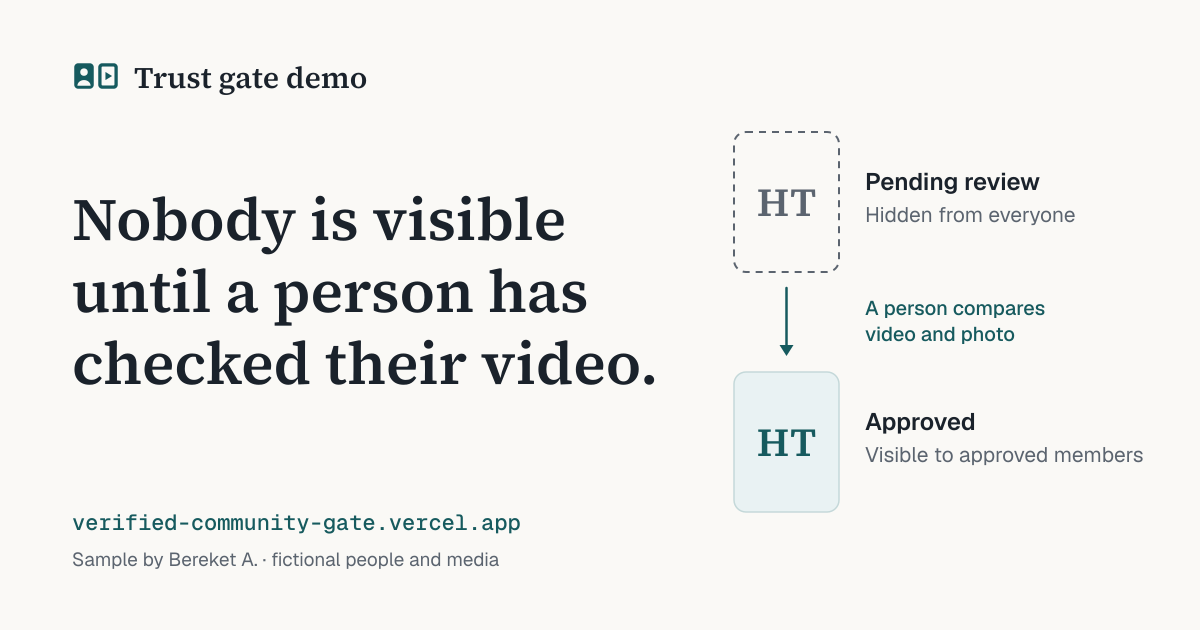
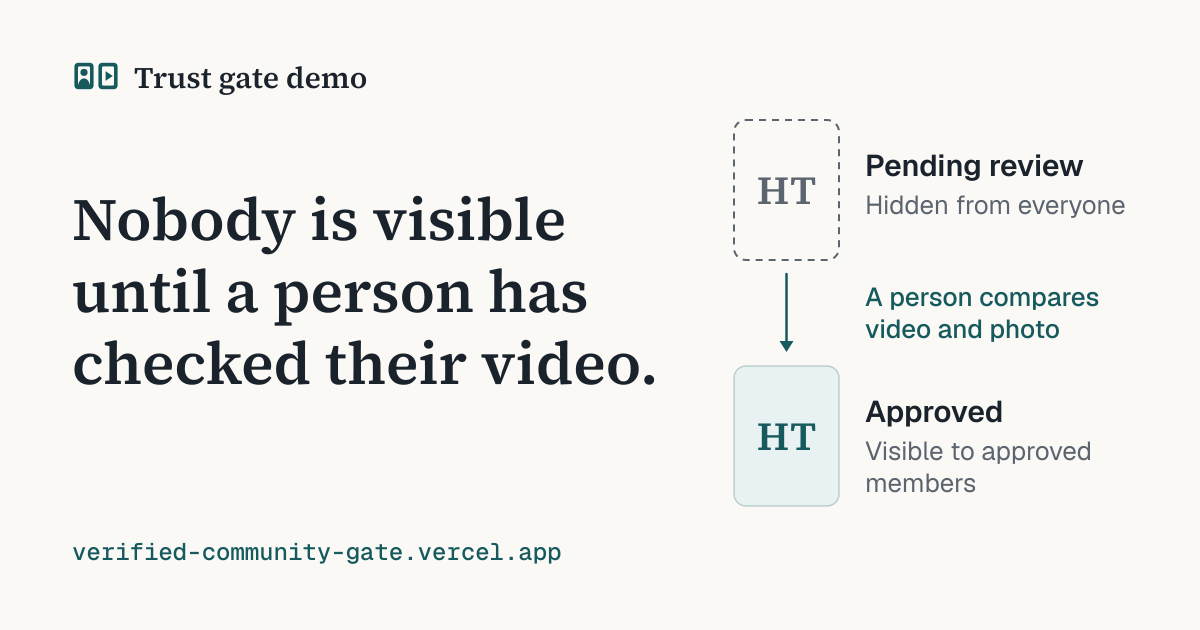
Redraw the mark as two matching frames on whole pixels
The photo and the video are now built the same way, the favicon is its own
16-unit drawing so it is sharp at 16, 32 and 48 px, and the social card's
labels are large enough for a mid-sized link preview.

diff --git a/components/brand-mark.tsx b/components/brand-mark.tsx
@@ -4,10 +4,7 @@
 export function BrandMark({ className }: { className?: string }) {
   return (
     <svg viewBox="0 0 32 32" fill="currentColor" aria-hidden="true" focusable="false" className={className}>
-      <path
-        fillRule="evenodd"
-        d="M4.1 7.5H11.9A2.6 2.6 0 0 1 14.5 10.1V21.9A2.6 2.6 0 0 1 11.9 24.5H4.1A2.6 2.6 0 0 1 1.5 21.9V10.1A2.6 2.6 0 0 1 4.1 7.5ZM5.5 13.4A2.5 2.5 0 1 0 10.5 13.4A2.5 2.5 0 1 0 5.5 13.4ZM3.6 22.5A4.4 3.8 0 0 1 12.4 22.5ZM20.1 7.5H27.9A2.6 2.6 0 0 1 30.5 10.1V21.9A2.6 2.6 0 0 1 27.9 24.5H20.1A2.6 2.6 0 0 1 17.5 21.9V10.1A2.6 2.6 0 0 1 20.1 7.5ZM20.3 9.7H27.7A0.6 0.6 0 0 1 28.3 10.3V21.7A0.6 0.6 0 0 1 27.7 22.3H20.3A0.6 0.6 0 0 1 19.7 21.7V10.3A0.6 0.6 0 0 1 20.3 9.7ZM22.3 13.3L22.3 18.7L26.7 16Z"
-      />
+      <path d="M4 7.2H12A2.4 2.4 0 0 1 14.4 9.6V22.4A2.4 2.4 0 0 1 12 24.8H4A2.4 2.4 0 0 1 1.6 22.4V9.6A2.4 2.4 0 0 1 4 7.2ZM4.8 9.6A0.8 0.8 0 0 0 4 10.4V21.6A0.8 0.8 0 0 0 4.8 22.4H11.2A0.8 0.8 0 0 0 12 21.6V10.4A0.8 0.8 0 0 0 11.2 9.6ZM5.6 13.6A2.4 2.4 0 1 0 10.4 13.6A2.4 2.4 0 1 0 5.6 13.6ZM4 23.2A4 5.6 0 0 1 12 23.2ZM20 7.2H28A2.4 2.4 0 0 1 30.4 9.6V22.4A2.4 2.4 0 0 1 28 24.8H20A2.4 2.4 0 0 1 17.6 22.4V9.6A2.4 2.4 0 0 1 20 7.2ZM20.8 9.6A0.8 0.8 0 0 0 20 10.4V21.6A0.8 0.8 0 0 0 20.8 22.4H27.2A0.8 0.8 0 0 0 28 21.6V10.4A0.8 0.8 0 0 0 27.2 9.6ZM22.4 12.8L22.4 19.2L27.2 16Z" />
     </svg>
   );
 }

diff --git a/design/make_brand.py b/design/make_brand.py
@@ -2,8 +2,15 @@
 """Draws the mark, the favicon, the Apple touch icon and the social preview card.
 
 The mark is the moderator's view in miniature: a portrait photo beside a video frame, the two
-things a person compares before anyone can see a profile. It is drawn on a 32-unit grid as one
-even-odd path, so the cut-outs (head, shoulders, the inside of the video frame) stay transparent.
+things a person compares before anyone can see a profile. Both halves are built the same way, a
+frame with something inside it (a head and shoulders cropped by the frame's bottom edge, a play
+triangle), so neither half outweighs the other. It is drawn on a 32-unit grid as one non-zero
+path: each frame's inner edge runs the other way round, so the inside stays transparent. The
+frames' edges, the triangle's corners and the top, bottom and sides of the head and shoulders sit
+on multiples of 0.8 units, which are whole pixels at the header's 40 px.
+
+The favicon is drawn separately on a 16-unit grid with whole-unit edges, so it is sharp at 16, 32
+and 48 px instead of being the large mark scaled down onto half pixels.
 
 Writes the sources to build/brand/ and the React component to components/brand-mark.tsx.
 design/build.sh then exports the files the app serves with Inkscape. Standard library only.
@@ -32,7 +39,19 @@ def num(v):
     return f"{v:.2f}".rstrip("0").rstrip(".")
 
 
-def rounded_rect(x, y, w, h, r):
+def rounded_rect(x, y, w, h, r, ccw=False):
+    """Clockwise by default; ccw=True runs the other way, which cuts a hole in a non-zero path."""
+    if r == 0:
+        if ccw:
+            return f"M{num(x)} {num(y)}V{num(y + h)}H{num(x + w)}V{num(y)}Z"
+        return f"M{num(x)} {num(y)}H{num(x + w)}V{num(y + h)}H{num(x)}Z"
+    if ccw:
+        return (
+            f"M{num(x + r)} {num(y)}A{num(r)} {num(r)} 0 0 0 {num(x)} {num(y + r)}"
+            f"V{num(y + h - r)}A{num(r)} {num(r)} 0 0 0 {num(x + r)} {num(y + h)}"
+            f"H{num(x + w - r)}A{num(r)} {num(r)} 0 0 0 {num(x + w)} {num(y + h - r)}"
+            f"V{num(y + r)}A{num(r)} {num(r)} 0 0 0 {num(x + w - r)} {num(y)}Z"
+        )
     return (
         f"M{num(x + r)} {num(y)}H{num(x + w - r)}A{num(r)} {num(r)} 0 0 1 {num(x + w)} {num(y + r)}"
         f"V{num(y + h - r)}A{num(r)} {num(r)} 0 0 1 {num(x + w - r)} {num(y + h)}"
@@ -46,6 +65,8 @@ def circle(cx, cy, r):
 
 
 def shoulders(cx, base, half_width, height):
+    """Half an ellipse standing on `base`. The base sits inside the frame's bottom edge, so the
+    shoulders run into the frame the way a portrait photo crops them."""
     return f"M{num(cx - half_width)} {num(base)}A{num(half_width)} {num(height)} 0 0 1 {num(cx + half_width)} {num(base)}Z"
 
 
@@ -53,33 +74,33 @@ def polygon(points):
     return "M" + "L".join(f"{num(x)} {num(y)}" for x, y in points) + "Z"
 
 
-# The glyph on the 32-unit grid: photo on the left, video on the right, 3 units apart,
-# both 13 by 17 (close to the 3:4 of the member portraits), centred on (16, 16).
-PHOTO = (1.5, 7.5, 13, 17)
-VIDEO = (17.5, 7.5, 13, 17)
-CORNER = 2.6
+# The glyph on the 32-unit grid: photo on the left, video on the right, 3.2 units apart, both
+# 12.8 by 17.6 (close to the 3:4 of the member portraits), centred on (16, 16). At 40 px one
+# unit is 1.25 px, so every value below that is a multiple of 0.8 lands on a whole pixel.
+PHOTO = (1.6, 7.2, 12.8, 17.6)
+VIDEO = (17.6, 7.2, 12.8, 17.6)
+CORNER, INNER_CORNER, FRAME = 2.4, 0.8, 2.4
+HEAD = (8.0, 13.6, 2.4)  # centre x, centre y, radius
+SHOULDERS = (8.0, 23.2, 4.0, 5.6)  # centre x, base (inside the bottom edge), half-width, height
+PLAY = [(22.4, 12.8), (22.4, 19.2), (27.2, 16.0)]
 
-# Two weights of the same drawing. The small one has a thicker frame and a bigger head and
-# shoulders, so the favicon still reads at 16 to 32 px.
-REGULAR = {"frame": 2.2, "head": 2.5, "head_y": 13.4, "shoulders": (4.4, 3.8), "play": [(22.3, 13.3), (22.3, 18.7), (26.7, 16.0)]}
-SMALL = {"frame": 2.8, "head": 2.9, "head_y": 13.2, "shoulders": (4.7, 4.0), "play": [(22.1, 13.0), (22.1, 19.0), (26.3, 16.0)]}
+
+def frame(x, y, w, h):
+    return rounded_rect(x, y, w, h, CORNER) + rounded_rect(x + FRAME, y + FRAME, w - 2 * FRAME, h - 2 * FRAME, INNER_CORNER, ccw=True)
 
 
-def glyph(weight=REGULAR):
-    """The photo with a head and shoulders cut out, and the video frame with a play triangle."""
-    px, py, pw, ph = PHOTO
-    vx, vy, vw, vh = VIDEO
-    cx, frame = px + pw / 2, weight["frame"]
-    return "".join(
-        [
-            rounded_rect(px, py, pw, ph, CORNER),
-            circle(cx, weight["head_y"], weight["head"]),
-            shoulders(cx, 22.5, *weight["shoulders"]),
-            rounded_rect(vx, vy, vw, vh, CORNER),
-            rounded_rect(vx + frame, vy + frame, vw - 2 * frame, vh - 2 * frame, 0.6),
-            polygon(weight["play"]),
-        ]
-    )
+def glyph():
+    """Two frames of the same build: a head and shoulders in the photo, a play triangle in the video."""
+    return "".join([frame(*PHOTO), circle(*HEAD), shoulders(*SHOULDERS), frame(*VIDEO), polygon(PLAY)])
+
+
+def favicon_glyph():
+    """The same drawing fitted to a 16-unit grid: two 6 by 8 frames with a 1-unit edge, 2 units
+    apart, a head and shoulders in the left one and a play triangle in the right."""
+    def tile(x):
+        return rounded_rect(x, 4, 6, 8, 1) + rounded_rect(x + 1, 5, 4, 6, 0, ccw=True)
+
+    return "".join([tile(1), circle(4, 7, 1), shoulders(4, 11.5, 2, 2.5), tile(9), polygon([(11, 6), (11, 10), (13, 8)])])
 
 
 def svg(width, height, body, view_box=None):
@@ -88,15 +109,15 @@ def svg(width, height, body, view_box=None):
 
 
 def mark_svg():
-    return svg(32, 32, f'  <path fill="currentColor" fill-rule="evenodd" d="{glyph()}"/>\n')
+    return svg(32, 32, f'  <path fill="currentColor" d="{glyph()}"/>\n')
 
 
 def favicon_svg():
     return svg(
-        32,
-        32,
-        f'  <rect width="32" height="32" rx="7" fill="{TEAL}"/>\n'
-        f'  <path fill="{PAPER}" fill-rule="evenodd" transform="translate(16 16) scale(0.82) translate(-16 -16)" d="{glyph(SMALL)}"/>\n',
+        16,
+        16,
+        f'  <rect width="16" height="16" rx="3.5" fill="{TEAL}"/>\n'
+        f'  <path fill="{PAPER}" d="{favicon_glyph()}"/>\n',
     )
 
 
@@ -106,7 +127,7 @@ def apple_icon_svg():
         180,
         180,
         f'  <rect width="32" height="32" fill="{TEAL}"/>\n'
-        f'  <path fill="{PAPER}" fill-rule="evenodd" transform="translate(16 16) scale(0.7) translate(-16 -16)" d="{glyph()}"/>\n',
+        f'  <path fill="{PAPER}" transform="translate(16 16) scale(0.7) translate(-16 -16)" d="{glyph()}"/>\n',
         view_box="0 0 32 32",
     )
 
@@ -125,38 +146,39 @@ def portrait(x, y, w, h, pending):
         card = f'  <rect x="{x}" y="{y}" width="{w}" height="{h}" rx="12" fill="none" stroke="{GREY}" stroke-width="2" stroke-dasharray="7 6"/>\n'
         colour = GREY
     else:
-        card = f'  <rect x="{x}" y="{y}" width="{w}" height="{h}" rx="12" fill="{TINT}" stroke="#c4d8d9" stroke-width="1.5"/>\n'
+        card = f'  <rect x="{x}" y="{y}" width="{w}" height="{h}" rx="12" fill="{TINT}" stroke="{TEAL}" stroke-opacity="0.25" stroke-width="1.5"/>\n'
         colour = TEAL
     return card + text(x + w / 2, y + h / 2 + 14, "HT", 40, "Source Serif 4", 600, colour, "middle", "1")
 
 
 def og_svg():
+    """1200 x 630. Text that has to survive a small link preview (about 300 px wide) is 26 px or more."""
     w, h = 1200, 630
     body = [f'  <rect width="{w}" height="{h}" fill="{PAPER}"/>\n']
     # Mark and name, top left.
-    body.append(f'  <path fill="{TEAL}" fill-rule="evenodd" transform="translate(72 52) scale(1.5)" d="{glyph()}"/>\n')
+    body.append(f'  <path fill="{TEAL}" transform="translate(72 52) scale(1.5)" d="{glyph()}"/>\n')
     body.append(text(134, 88, "Trust gate demo", 30, "Source Serif 4", 600))
     # Headline, the home page's first line.
     for i, line in enumerate(["Nobody is visible", "until a person has", "checked their video."]):
         body.append(text(72, 240 + i * 72, line, 60, "Source Serif 4", 600))
     # Right: the same member before and after review.
-    px, top, pw, ph = 734, 132, 105, 140
+    px, top, pw, ph = 734, 120, 105, 140
     lx = px + pw + 26
     body.append(portrait(px, top, pw, ph, pending=True))
-    body.append(text(lx, top + 58, "Pending review", 24, weight=600))
-    body.append(text(lx, top + 90, "Hidden from everyone", 21, fill=GREY))
-    ax, a0, a1 = px + pw / 2, top + ph + 16, top + ph + 84
+    body.append(text(lx, top + 56, "Pending review", 30, weight=600))
+    body.append(text(lx, top + 94, "Hidden from everyone", 26, fill=GREY))
+    ax, a0, a1 = px + pw / 2, top + ph + 14, top + ph + 92
     body.append(f'  <path d="M{num(ax)} {num(a0)}V{num(a1 - 9)}" stroke="{TEAL}" stroke-width="2.5" stroke-linecap="round" fill="none"/>\n')
     body.append(f'  <path d="{polygon([(ax - 7, a1 - 11), (ax + 7, a1 - 11), (ax, a1)])}" fill="{TEAL}"/>\n')
-    body.append(text(lx, a0 + 27, "A person compares", 20, fill=TEAL, weight=500))
-    body.append(text(lx, a0 + 53, "video and photo", 20, fill=TEAL, weight=500))
-    top2 = a1 + 16
+    body.append(text(lx, a0 + 32, "A person compares", 26, fill=TEAL, weight=500))
+    body.append(text(lx, a0 + 64, "video and photo", 26, fill=TEAL, weight=500))
+    top2 = a1 + 14
     body.append(portrait(px, top2, pw, ph, pending=False))
-    body.append(text(lx, top2 + 58, "Approved", 24, weight=600))
-    body.append(text(lx, top2 + 90, "Visible to approved members", 21, fill=GREY))
-    # Bottom left: where the demo lives and the footer wording.
-    body.append(text(72, 530, "verified-community-gate.vercel.app", 22, "Geist Mono", 500, TEAL))
-    body.append(text(72, 566, "Sample by Bereket A. · fictional people and media", 19, fill=GREY))
+    body.append(text(lx, top2 + 56, "Approved", 30, weight=600))
+    body.append(text(lx, top2 + 94, "Visible to approved", 26, fill=GREY))
+    body.append(text(lx, top2 + 126, "members", 26, fill=GREY))
+    # Bottom left: where the demo lives. A preview already shows the domain, so nothing smaller.
+    body.append(text(72, 560, "verified-community-gate.vercel.app", 24, "Geist Mono", 500, TEAL))
     return svg(w, h, "".join(body))
 
 
@@ -166,10 +188,7 @@ COMPONENT = """// The mark: a portrait photo beside a video frame, the two thing
 export function BrandMark({{ className }}: {{ className?: string }}) {{
   return (
     <svg viewBox="0 0 32 32" fill="currentColor" aria-hidden="true" focusable="false" className={{className}}>
-      <path
-        fillRule="evenodd"
-        d="{d}"
-      />
+      <path d="{d}" />
     </svg>
   );
 }}
